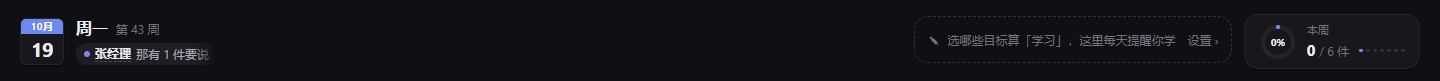
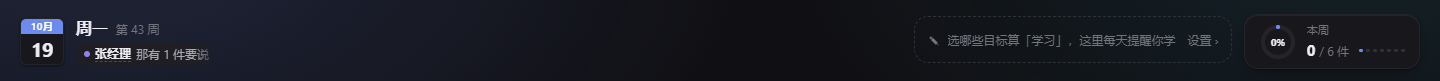
docs: PROGRESS 记便签 W1–W4 验收；人际截图随顶栏新按钮更新

diff --git a/docs/PROGRESS.md b/docs/PROGRESS.md
@@ -1105,3 +1105,17 @@ Document PiP 与主页面**同一个 JS realm**，所以旧实现是 `createPort
 ### 2026-10-28 补：收起顶部菜单栏
 
 负责人拍板：主窗 `autoHideMenuBar: true`，File / Edit / View / Window 默认收起，玻璃直通标题栏下沿；按 Alt 临时呼出，菜单快捷键（刷新、缩放、开发者工具）照常生效。`check-glass.mjs` 加一项断言菜单栏默认不可见且为自动隐藏（16 项全过），`electron:build` 后 `desktop-smoke` 全过。
+
+## 2026-10-29 便签（docs/NOTES_SPEC.md）
+
+负责人：要一个备忘录 / 便签功能，生产级，先出方案确认。方案七个问题负责人「全按推荐」：全局入口 + Alt+N 右侧面板、手机端要、清单要 / 图片附件不做、桌面贴纸与全局速记要、关联目标人物放 v2、加「仅本机」开关。
+
+**边界**：便签 = 要记住的东西，没有日期 / 完成 / 统计；要去做的事点「转待办」进工作台「待处理」。
+
+- **W1 数据层**：`Note`（domain.ts）、Dexie v6 `notes`、云端 `supabase/migrations/0007_notes.sql`、备份 schema（老备份补空数组）、设置页计数。派生 `lib/derive/notes.ts`（标题 / 标签 / 清单 / 搜索 / 分区 / 回收站过期）。同步：**冲突副本**（远端赢了而本机正文有没推的修改 ⇒ 本机版另存一条，`db/sync/merge.ts noteConflictCopies`）、**仅本机**推送只推不含正文的墓碑（`redactForPush`）。撤销：`execute(label, changes, { mergeKey })` 一次编辑会话合成一条，新建后清空收起与新建抵消。
+- **W2/W3 面板**：顶栏「便签」按钮（手机只显示图标）、Alt+N、命令面板「新建便签」与按正文搜便签、速查表。面板 lazy 分包：搜索兼新建（回车记下 / Ctrl+回车展开写）、标签条、置顶 / 其他、卡片预览（清单可勾、标签可点、网址可开）、原位编辑（防抖 500ms、清单回车续行、编辑中远端改了 ⇒ 冲突副本）、颜色 6+1、置顶、转待办（整条 / 某一行）、仅本机、归档、回收站（30 天自动清）。
+- **W4 桌面版**：便签「贴到桌面」= 无边框置顶小窗，直接改字、换色、回面板、取下；重开应用自动贴回（位置存 userData/sticky-notes.json）。全局热键 Ctrl+Alt+N 弹速记框（失焦收起、字留着）；被占用时设置页说明。小窗不碰库：经 BroadcastChannel 让主窗执行（`notes/channel.ts` 说明原因）。顺手把番茄钟小窗的主题跟随抽成 `lib/useFollowTheme.ts` 共用。
+
+**验收**：`tsc -b` + `tsc -p electron` + `oxlint` 干净；vitest 393 全绿（新增 notes 派生 15、同步冲突 / 脱敏 6、noteActions 10）。`check-notes.mjs` 41 项全过（连跑三次）；`electron:build` 后 `check-notes-desktop.mjs` 20 项全过（含重开贴回、SendKeys 真按热键）、`desktop-smoke` 全过；`check-people` 回归全过（顶栏多了按钮，截图已更新）。截图 `docs/screenshots/notes/` 逐张过目（深浅、编辑态、回收站、甘特页、手机）。自查中修掉一个真问题：清单续行的光标原先下一帧才设，打字快时字落到错的位置。
+
+**负责人要做的**：① Supabase SQL Editor 执行 `supabase/migrations/0007_notes.sql`（不执行只有便签不同步，状态点会提示）② 右键托盘「退出」后重开桌面版。
